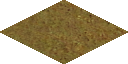
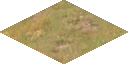
Return of the King
Recovered old tile sprites, replaced them and added the default set for later
Added the tile info for the added tiles
Changed the selector to use one sprite and tint for lockedTile
Made units use a tinting sprite
Cleaned up some shit

diff --git a/Isometric/Game1.cs b/Isometric/Game1.cs
@@ -60,8 +60,9 @@ namespace Isometric
         {
             spriteBatch = new SpriteBatch(GraphicsDevice);
             ContentLoader.Initialize(Content);
-
-            aggressorUT = new UnitType("Aggressor", "UE", "The “Aggressor” light tank sacrifices firepower for superior armor, granting it the ‘medium’ armor classification- though it is still without most traits of a main battle tank. While this unit’s rapid fire main cannon is effective against soft targets, it lacks armor penetration and is at a disadvantage against equally armored foes.", "Light Tank", 1, 2200, 0, 0, 338, 200, "Medium", new Weapon[] { new Weapon(30, "Pierce", 8, 2, 0) }, 8, EMoveType.Tread, 8, ContentLoader.UDT_Aggressor);
+            //HACK: Make my image loading use your magic
+            Texture2D tempAggressorTint = Content.Load<Texture2D>("UDT_Aggressor_tint");
+            aggressorUT = new UnitType("Aggressor", "UE", "The “Aggressor” light tank sacrifices firepower for superior armor, granting it the ‘medium’ armor classification- though it is still without most traits of a main battle tank. While this unit’s rapid fire main cannon is effective against soft targets, it lacks armor penetration and is at a disadvantage against equally armored foes.", "Light Tank", 1, 2200, 0, 0, 338, 200, "Medium", new Weapon[] { new Weapon(30, "Pierce", 8, 2, 0) }, 8, EMoveType.Tread, 8, ContentLoader.UDT_Aggressor, tempAggressorTint);
 
             allTileTypes = new Dictionary<string, TileType>();
 
@@ -84,7 +85,6 @@ namespace Isometric
                 }
             }
 
-            //units.Add(new Unit(aggressorUT, new Point(0,0), 1));
         }
 
         protected override void UnloadContent()
@@ -134,7 +134,7 @@ namespace Isometric
                     turn++;
                     foreach (Unit unit in units)
                     {
-                        unit.Moves = unit.Type.getMaxMoves();
+                        unit.Moves = unit.Type.maxMoves;
                     }
                 }
                 if (NKeys.IsKeyPressed(Keys.Enter))
@@ -175,7 +175,7 @@ namespace Isometric
             }
             else
             {
-                var movType = units[selectedUnitIndex].Type.getMovType();
+                var movType = units[selectedUnitIndex].Type.moveType;
 
                 foreach(var kvp in MovementDirections)
                 {
@@ -194,10 +194,10 @@ namespace Isometric
                         }
                         if (tgtCoords.X < 0 || tgtCoords.Y < 0 || tgtCoords.X >= worldWidth || tgtCoords.Y >= worldHeight)
                             continue;
-                        var targetTile = world[lockedTile.X + kvp.Value.X, lockedTile.Y + kvp.Value.Y];
-                        if(targetTile.getType().getMoveCostFromTypeString(movType) <= selectedUnit.Moves && clear == true)
+                        var targetTile = world[selectedTile.X + kvp.Value.X, selectedTile.Y + kvp.Value.Y];
+                        if(targetTile.type.getMoveCostFromTypeString(movType) <= selectedUnit.Moves && clear == true)
                         {
-                            selectedUnit.Moves = selectedUnit.Moves - targetTile.getType().getMoveCostFromTypeString(movType);
+                            selectedUnit.Moves = selectedUnit.Moves - targetTile.type.getMoveCostFromTypeString(movType);
                             selectedUnit.Position = selectedUnit.Position + kvp.Value;
                             selectedTile += kvp.Value;
                         }
@@ -222,29 +222,31 @@ namespace Isometric
             {
                 for (int p = 0; p < worldWidth; p++)
                 {
-                    spriteBatch.Draw(world[p,i].getType().getSprite(), world[p,i].getScreenPosition(), Color.White);
+                    spriteBatch.Draw(world[p,i].type.sprite, world[p,i].getScreenPosition(), Color.White);
                 }
             }
             spriteBatch.Draw(ContentLoader.selector, worldToScreenBounds(selectedTile), Color.White);
             if ( lockedTile.X!=-1 && lockedTile.Y != -1)
             {
-                spriteBatch.Draw(ContentLoader.altSelector, worldToScreenBounds(lockedTile), Color.White);
+                spriteBatch.Draw(ContentLoader.selector, worldToScreenBounds(lockedTile), Color.Red);
             }
             foreach (Unit unit in units)
             {
+                //HACK: Make tinting not look like shit?
                 if (unit.Player == 2)
                 {
-                    spriteBatch.Draw(unit.Type.getSprite(), worldToScreenBounds(unit.Position), unit.Moves == 0 ? Color.DarkRed : Color.Red);
+                    spriteBatch.Draw(unit.Type.sprite, worldToScreenBounds(unit.Position), unit.Moves == 0 ? Color.Gray : Color.White);
+                    spriteBatch.Draw(unit.Type.tintSprite, worldToScreenBounds(unit.Position), unit.Moves == 0 ? Color.DarkRed : Color.Red);
                 }
                 else
                 {
-
-                    spriteBatch.Draw(unit.Type.getSprite(), worldToScreenBounds(unit.Position), unit.Moves == 0 ? Color.Gray : Color.White);
+                    spriteBatch.Draw(unit.Type.sprite, worldToScreenBounds(unit.Position), unit.Moves == 0 ? Color.Gray : Color.White);
+                    spriteBatch.Draw(unit.Type.tintSprite, worldToScreenBounds(unit.Position), unit.Moves == 0 ? Color.DarkBlue : Color.Blue);
                 }
             }
             if (selectedUnitIndex != -1)
             {
-                spriteBatch.DrawString(ContentLoader.Arial, "Remaining Moves: "+units[selectedUnitIndex].Moves.ToString(), new Vector2(10, 30)-cameraOffset, Color.Red);
+                spriteBatch.DrawString(ContentLoader.Arial, "Remaining Movement: "+units[selectedUnitIndex].Moves.ToString(), new Vector2(10, 30)-cameraOffset, Color.Red);
             }
             spriteBatch.DrawString(ContentLoader.Arial, "Turn " + turn +", Player "+currentPlayer, new Vector2(10, 10) - cameraOffset, Color.Red);
             spriteBatch.End();

diff --git a/Isometric/ContentLoader1.cs b/Isometric/ContentLoader1.cs
@@ -15,35 +15,71 @@ namespace Isometric
 	static class ContentLoader
 	{
 		public static Dictionary<string, Texture2D> AllTextures { get; private set; }
-		public static Texture2D altSelector { get; private set; }
-		public static Texture2D iso_land { get; private set; }
+		public static Texture2D ash { get; private set; }
+		public static Texture2D battlefield { get; private set; }
+		public static Texture2D battlefield_2 { get; private set; }
+		public static Texture2D battlefield_3 { get; private set; }
+		public static Texture2D battlefield_4 { get; private set; }
+		public static Texture2D dirt { get; private set; }
+		public static Texture2D foliage { get; private set; }
+		public static Texture2D forest { get; private set; }
+		public static Texture2D mud { get; private set; }
 		public static Texture2D plains { get; private set; }
+		public static Texture2D plainsHills { get; private set; }
+		public static Texture2D plainsMountains { get; private set; }
 		public static Texture2D selector { get; private set; }
-		public static Texture2D snow { get; private set; }
 		public static Texture2D UDT_Aggressor { get; private set; }
+		public static Texture2D UDT_Aggressor_tint { get; private set; }
 		public static SpriteFont Arial { get; private set; }
 		
 		public static void Initialize(ContentManager cm)
 		{
 			AllTextures = new Dictionary<string, Texture2D>();
 
-			altSelector = cm.Load<Texture2D>(@"altSelector");
-			AllTextures.Add("altSelector", altSelector);
+			ash = cm.Load<Texture2D>(@"ash");
+			AllTextures.Add("ash", ash);
 
-			iso_land = cm.Load<Texture2D>(@"iso_land");
-			AllTextures.Add("iso_land", iso_land);
+			battlefield = cm.Load<Texture2D>(@"battlefield");
+			AllTextures.Add("battlefield", battlefield);
+
+			battlefield_2 = cm.Load<Texture2D>(@"battlefield_2");
+			AllTextures.Add("battlefield_2", battlefield_2);
+
+			battlefield_3 = cm.Load<Texture2D>(@"battlefield_3");
+			AllTextures.Add("battlefield_3", battlefield_3);
+
+			battlefield_4 = cm.Load<Texture2D>(@"battlefield_4");
+			AllTextures.Add("battlefield_4", battlefield_4);
+
+			dirt = cm.Load<Texture2D>(@"dirt");
+			AllTextures.Add("dirt", dirt);
+
+			foliage = cm.Load<Texture2D>(@"foliage");
+			AllTextures.Add("foliage", foliage);
+
+			forest = cm.Load<Texture2D>(@"forest");
+			AllTextures.Add("forest", forest);
+
+			mud = cm.Load<Texture2D>(@"mud");
+			AllTextures.Add("mud", mud);
 
 			plains = cm.Load<Texture2D>(@"plains");
 			AllTextures.Add("plains", plains);
 
+			plainsHills = cm.Load<Texture2D>(@"plainsHills");
+			AllTextures.Add("plainsHills", plainsHills);
+
+			plainsMountains = cm.Load<Texture2D>(@"plainsMountains");
+			AllTextures.Add("plainsMountains", plainsMountains);
+
 			selector = cm.Load<Texture2D>(@"selector");
 			AllTextures.Add("selector", selector);
 
-			snow = cm.Load<Texture2D>(@"snow");
-			AllTextures.Add("snow", snow);
-
 			UDT_Aggressor = cm.Load<Texture2D>(@"UDT_Aggressor");
 			AllTextures.Add("UDT_Aggressor", UDT_Aggressor);
+
+			UDT_Aggressor_tint = cm.Load<Texture2D>(@"UDT_Aggressor_tint");
+			AllTextures.Add("UDT_Aggressor_tint", UDT_Aggressor_tint);
 
 			Arial = cm.Load<SpriteFont>(@"Arial");
 		}

diff --git a/Isometric/UnitType.cs b/Isometric/UnitType.cs
@@ -19,15 +19,16 @@ namespace Isometric
         int xCost;
         int eCost;
         int totalCost;
-        int maxHP;
+        public int maxHP { get; }
         string defType;
         Weapon[] weapons;
-        int maxMoves;
-        EMoveType moveType;
+        public int maxMoves { get; }
+        public EMoveType moveType { get; }
         int los;
-        Texture2D sprite;
+        public Texture2D sprite { get; }
+        public Texture2D tintSprite { get; }
 
-        public UnitType(string name, string faction, string desc, string tooltip, int tier, int mCost, int rCost, int xCost, int eCost, int maxHP, string defType, Weapon[] weapons, int maxMoves, EMoveType moveType, int los, Texture2D sprite)
+        public UnitType(string name, string faction, string desc, string tooltip, int tier, int mCost, int rCost, int xCost, int eCost, int maxHP, string defType, Weapon[] weapons, int maxMoves, EMoveType moveType, int los, Texture2D sprite, Texture2D tintSprite)
         {
             // TODO: You could CSV-ify this stuff too but if I embark on that right now I'll die
             // Also maybe just wait until we have a better CSV reader too
@@ -48,22 +49,7 @@ namespace Isometric
             this.moveType = moveType;
             this.los = los;
             this.sprite = sprite;
-        }
-        public int getMaxMoves()
-        {
-            return maxMoves;
-        }
-        public int getMaxHP()
-        {
-            return maxHP;
-        }
-        public Texture2D getSprite()
-        {
-            return sprite;
-        }
-        public EMoveType getMovType()
-        {
-            return moveType;
+            this.tintSprite = tintSprite;
         }
     }
 }

diff --git a/Isometric/Tile.cs b/Isometric/Tile.cs
@@ -12,23 +12,19 @@ namespace Isometric
         int hp;
         int Xposition;
         int Yposition;
-        TileType type;
+        public TileType type { get; }
 
         public Tile(int x,int y,TileType tiletype) {
             Xposition = x;
             Yposition = y;
             this.type = tiletype;
-            hp = tiletype.getMaxHP();
+            hp = tiletype.maxHP;
         }
         public Rectangle getScreenPosition()
         {
             int x = Xposition * Constants.HalfTileWidth - Yposition * Constants.HalfTileWidth;
             int y = Xposition * Constants.HalfTileHeight + Yposition * Constants.HalfTileHeight;
             return new Rectangle(x, y, Constants.TileWidth, Constants.TileHeight);
-        }
-        public TileType getType()
-        {
-            return type;
         }
     }
 }

diff --git a/Isometric/TileType.cs b/Isometric/TileType.cs
@@ -13,8 +13,8 @@ namespace Isometric
         public string name { get; }
         string displayName;
         string desc;
-        Texture2D sprite;
-        int maxHP;
+        public Texture2D sprite { get; }
+        public int maxHP { get; }
         string deathTile;
         int losCost;
         float defMultiplier;
@@ -45,16 +45,6 @@ namespace Isometric
             }
         }
 
-        // Boy... all these getter functions...
-        // I gotta show you how auto-properties work
-        public int getMaxHP()
-        {
-            return maxHP;
-        }
-        public Texture2D getSprite()
-        {
-            return sprite;
-        }
         public int getMoveCostFromTypeString(EMoveType type)
         {
             return MoveCosts[type];

diff --git a/Isometric/Unit.cs b/Isometric/Unit.cs
@@ -21,8 +21,8 @@ namespace Isometric
             Type = type;
             Position = position;
             Player = player;
-            Moves = type.getMaxMoves();
-            HP = type.getMaxHP();
+            Moves = type.maxMoves;
+            HP = type.maxHP;
             InCombat = false;
         }
     }

diff --git a/Isometric/MoveType.cs b/Isometric/MoveType.cs
@@ -8,7 +8,7 @@ namespace Isometric
 {
     enum EMoveType: byte
     {
-        Foot,
+        Foot = 0,
         Tire,
         Tread,
         Crawler, //crawler?
